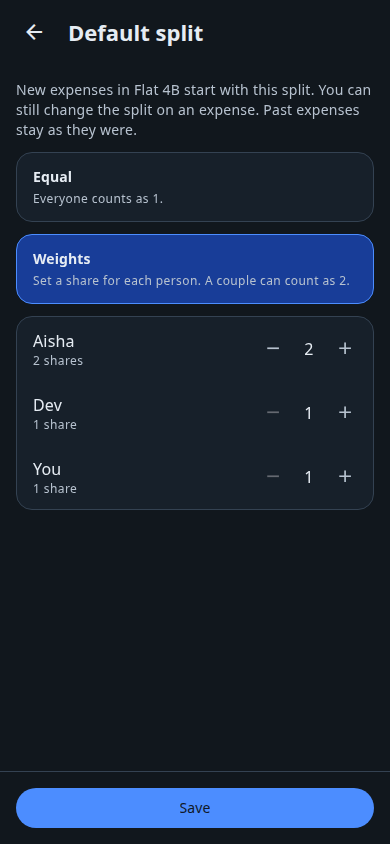
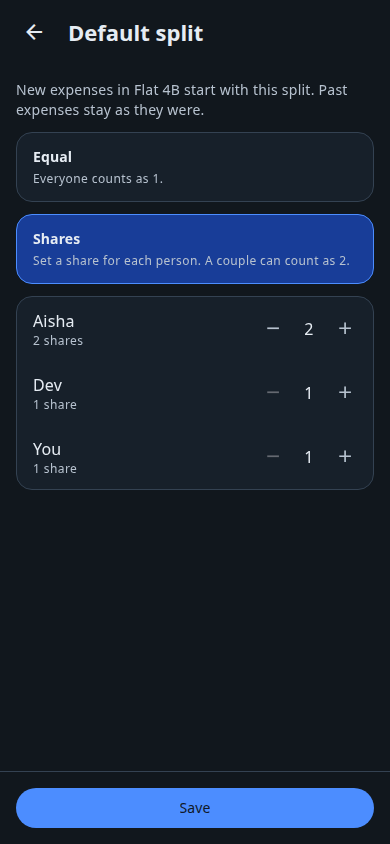
fix(mobile): label the group default Shares
The settings card uses the same word as the expense form. The stored
mode stays weights. The lead no longer repeats that one expense can
still be changed.

diff --git a/mobile/screens/DefaultSplitPreviewScreen.tsx b/mobile/screens/DefaultSplitPreviewScreen.tsx
@@ -7,6 +7,7 @@ import {
   Chip,
   Divider,
   IconButton,
+  Menu,
   Surface,
   Text,
   TextInput,
@@ -54,6 +55,10 @@ const FRIDAY_DINNER = {
 };
 
 export function DefaultSplitPreviewScreen({ shot }: { shot: DefaultSplitShot }) {
+  if (shot === "menu") {
+    return <GroupMenuPreview />;
+  }
+
   if (shot === "settings-equal" || shot === "settings-weights") {
     return (
       <GroupDefaultSplitSheet
@@ -70,6 +75,47 @@ export function DefaultSplitPreviewScreen({ shot }: { shot: DefaultSplitShot }) 
   }
 
   return <ExpensePreview shot={shot} />;
+}
+
+function GroupMenuPreview() {
+  const theme = useTheme();
+  return (
+    <View style={[styles.screen, { backgroundColor: theme.colors.background }]}>
+      <Appbar.Header style={{ backgroundColor: theme.colors.background }}>
+        <Appbar.BackAction accessibilityLabel="Navigate back" />
+        <Appbar.Content title="Flat 4B" titleStyle={{ fontWeight: "bold" }} />
+        <Menu
+          visible
+          onDismiss={() => {}}
+          anchor={
+            <Appbar.Action
+              icon="dots-vertical"
+              accessibilityLabel="Group options"
+              testID="group-menu-button"
+            />
+          }
+          contentStyle={{ minWidth: 200 }}
+        >
+          <Menu.Item title="History" leadingIcon="history" testID="group-menu-history" />
+          <Menu.Item title="Share summary" leadingIcon="share-variant" testID="group-menu-share-summary" />
+          <Menu.Item title="People" leadingIcon="account-group" testID="group-menu-people" />
+          <Menu.Item title="Spending & stats" leadingIcon="chart-pie" testID="group-menu-spending" />
+          <Menu.Item title="Rates" leadingIcon="percent" testID="group-menu-rates" />
+          <Menu.Item title="Edit group details" leadingIcon="pencil" testID="group-menu-edit-details" />
+          <Menu.Item title="Default split" leadingIcon="scale-balance" testID="group-menu-default-split" />
+          <Menu.Item title="Settlement currency" leadingIcon="cash-sync" testID="group-menu-settlement-currency" />
+          <Menu.Item title="Import from Splitwise" leadingIcon="file-import-outline" testID="group-menu-import-splitwise" />
+          <Menu.Item title="Archive" leadingIcon="archive-outline" testID="group-menu-archive" />
+          <Menu.Item
+            title="Leave group"
+            leadingIcon="exit-run"
+            titleStyle={{ color: theme.colors.error }}
+            testID="group-menu-leave"
+          />
+        </Menu>
+      </Appbar.Header>
+    </View>
+  );
 }
 
 function ExpensePreview({ shot }: { shot: DefaultSplitShot }) {

diff --git a/mobile/components/GroupDefaultSplitSheet.tsx b/mobile/components/GroupDefaultSplitSheet.tsx
@@ -105,8 +105,8 @@ export const GroupDefaultSplitSheet: React.FC<GroupDefaultSplitSheetProps> = ({
         <ScrollView contentContainerStyle={styles.body} keyboardShouldPersistTaps="handled">
           <Text variant="bodyMedium" style={{ color: theme.colors.onSurfaceVariant }}>
             {groupName
-              ? `New expenses in ${groupName} start with this split. You can still change the split on an expense. Past expenses stay as they were.`
-              : "New expenses start with this split. You can still change the split on an expense. Past expenses stay as they were."}
+              ? `New expenses in ${groupName} start with this split. Past expenses stay as they were.`
+              : "New expenses start with this split. Past expenses stay as they were."}
           </Text>
 
           <ModeCard
@@ -118,7 +118,7 @@ export const GroupDefaultSplitSheet: React.FC<GroupDefaultSplitSheetProps> = ({
             onPress={() => setDraftMode("equal")}
           />
           <ModeCard
-            title="Weights"
+            title="Shares"
             description="Set a share for each person. A couple can count as 2."
             selected={draftMode === "weights"}
             disabled={saving}
@@ -133,7 +133,7 @@ export const GroupDefaultSplitSheet: React.FC<GroupDefaultSplitSheetProps> = ({
             >
               {participants.length === 0 ? (
                 <Text variant="bodyMedium" style={{ color: theme.colors.onSurfaceVariant }}>
-                  Add people to this group before setting weights.
+                  Add people to this group before setting shares.
                 </Text>
               ) : (
                 participants.map((participant) => {

diff --git a/mobile/utils/defaultSplitShots.test.ts b/mobile/utils/defaultSplitShots.test.ts
@@ -7,6 +7,7 @@ Deno.test("default split preview reads its shot names", () => {
   assertEquals(readDefaultSplitShot("?shot=expense-prefill"), "expense-prefill");
   assertEquals(readDefaultSplitShot("?shot=expense-changed"), "expense-changed");
   assertEquals(readDefaultSplitShot("?shot=expense-unchanged"), "expense-unchanged");
+  assertEquals(readDefaultSplitShot("?shot=menu"), "menu");
   assertEquals(readDefaultSplitShot("?shot=search"), "settings-equal");
   assertEquals(readDefaultSplitShot(null), "settings-equal");
 });

diff --git a/mobile/utils/defaultSplitShots.ts b/mobile/utils/defaultSplitShots.ts
@@ -5,7 +5,8 @@ export type DefaultSplitShot =
   | "settings-weights"
   | "expense-prefill"
   | "expense-changed"
-  | "expense-unchanged";
+  | "expense-unchanged"
+  | "menu";
 
 const SHOTS: readonly DefaultSplitShot[] = [
   "settings-equal",
@@ -13,6 +14,7 @@ const SHOTS: readonly DefaultSplitShot[] = [
   "expense-prefill",
   "expense-changed",
   "expense-unchanged",
+  "menu",
 ];
 
 function isShot(value: string): value is DefaultSplitShot {
